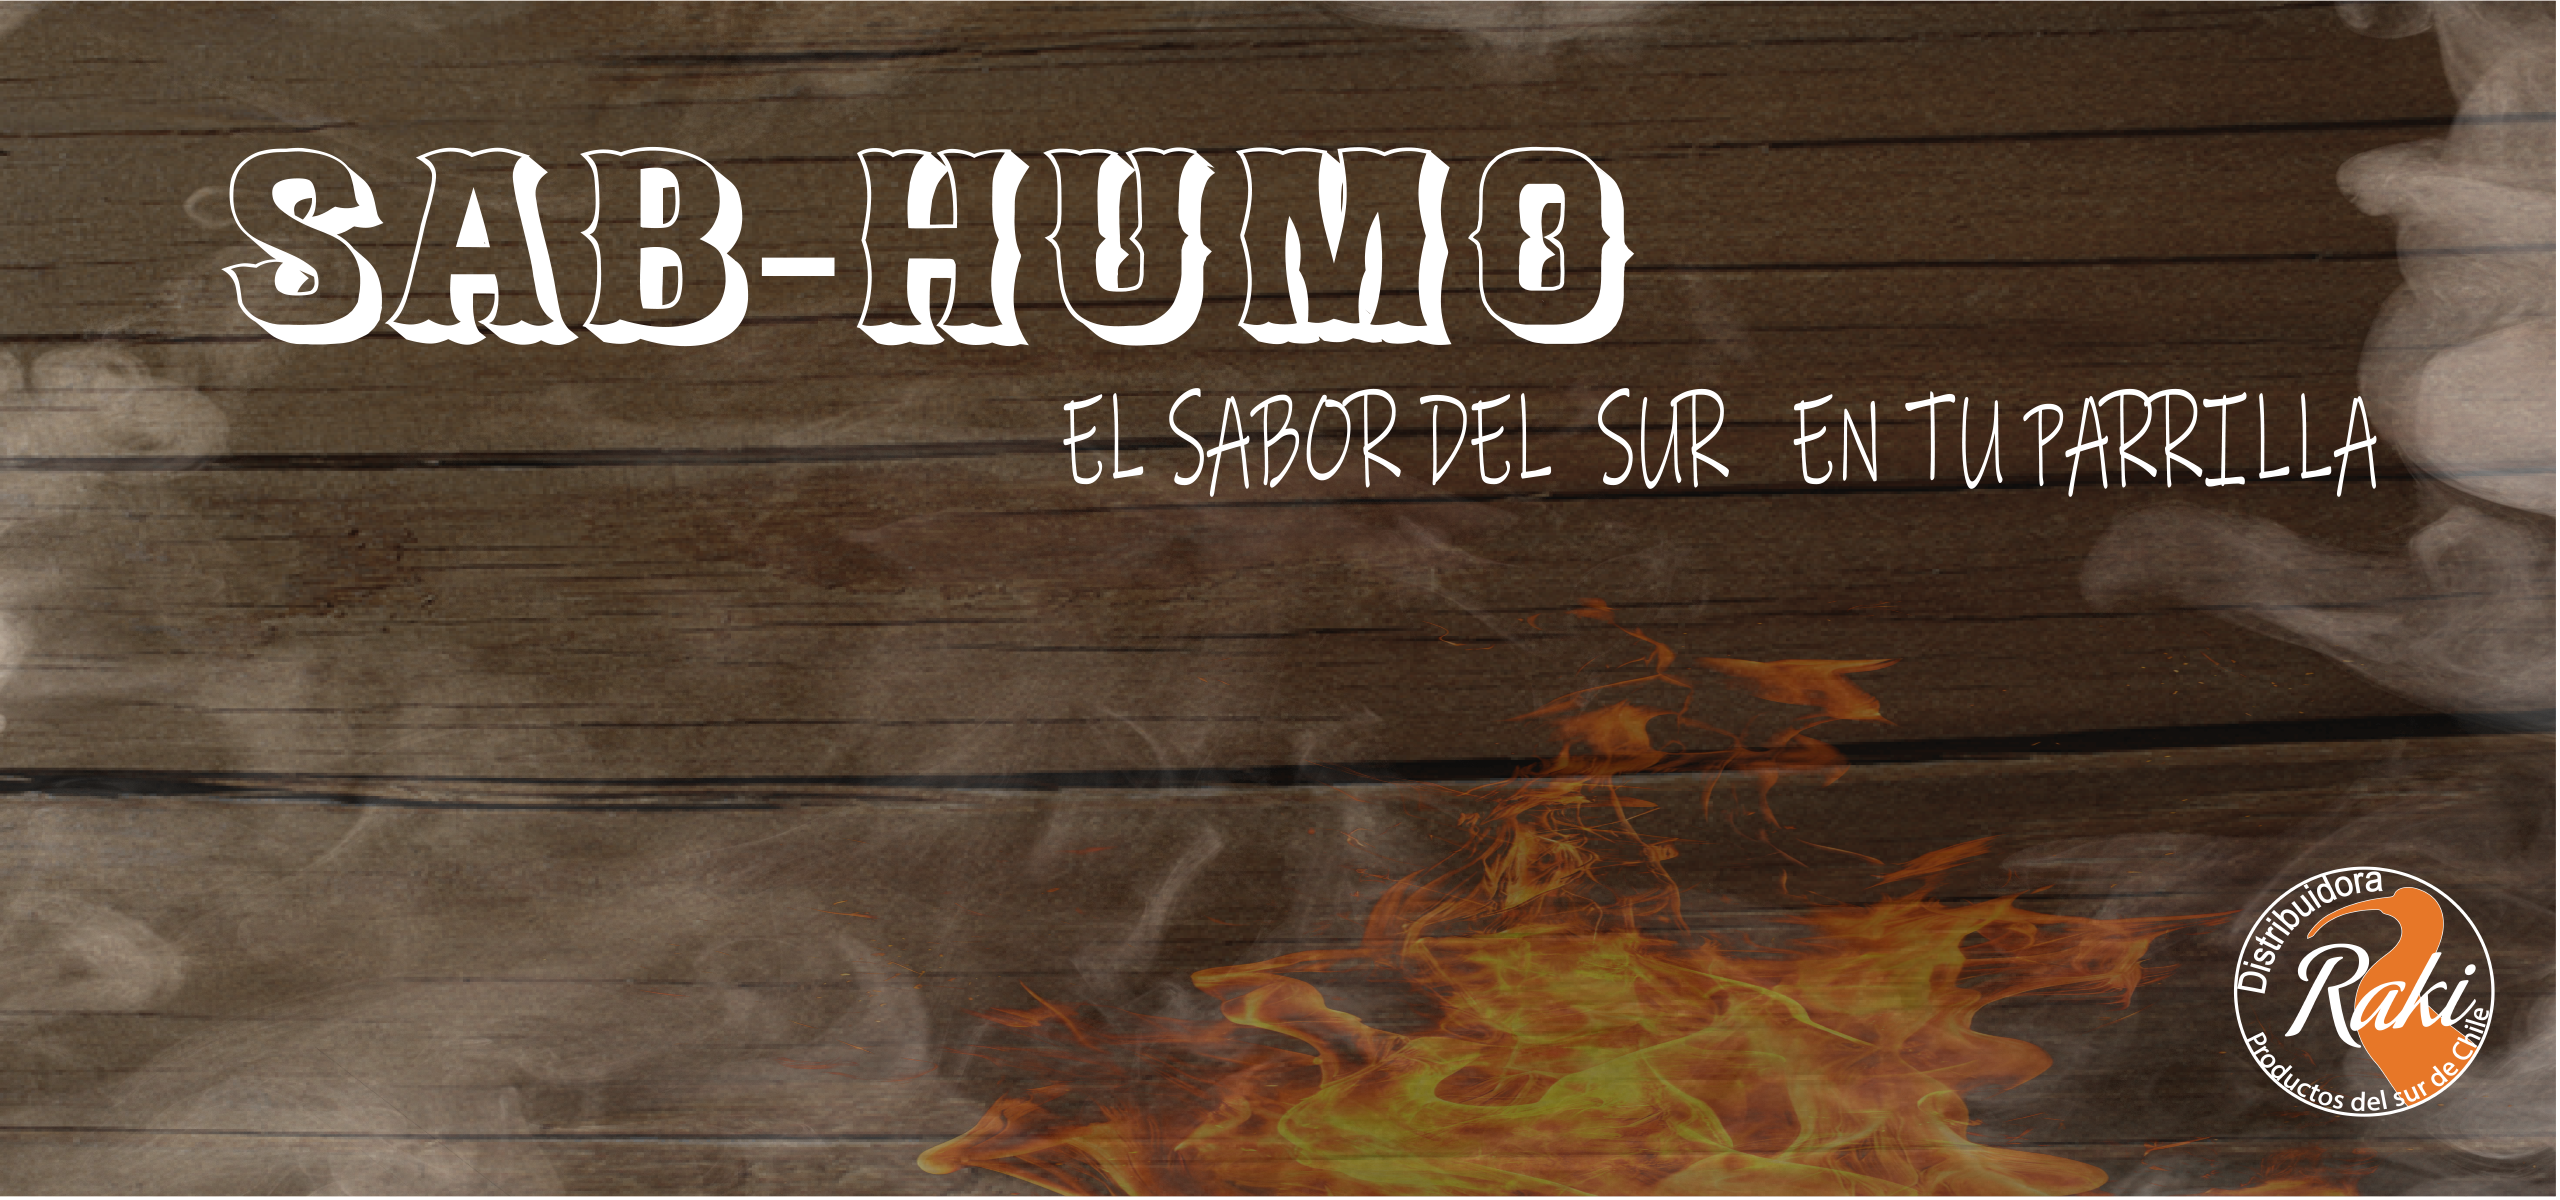
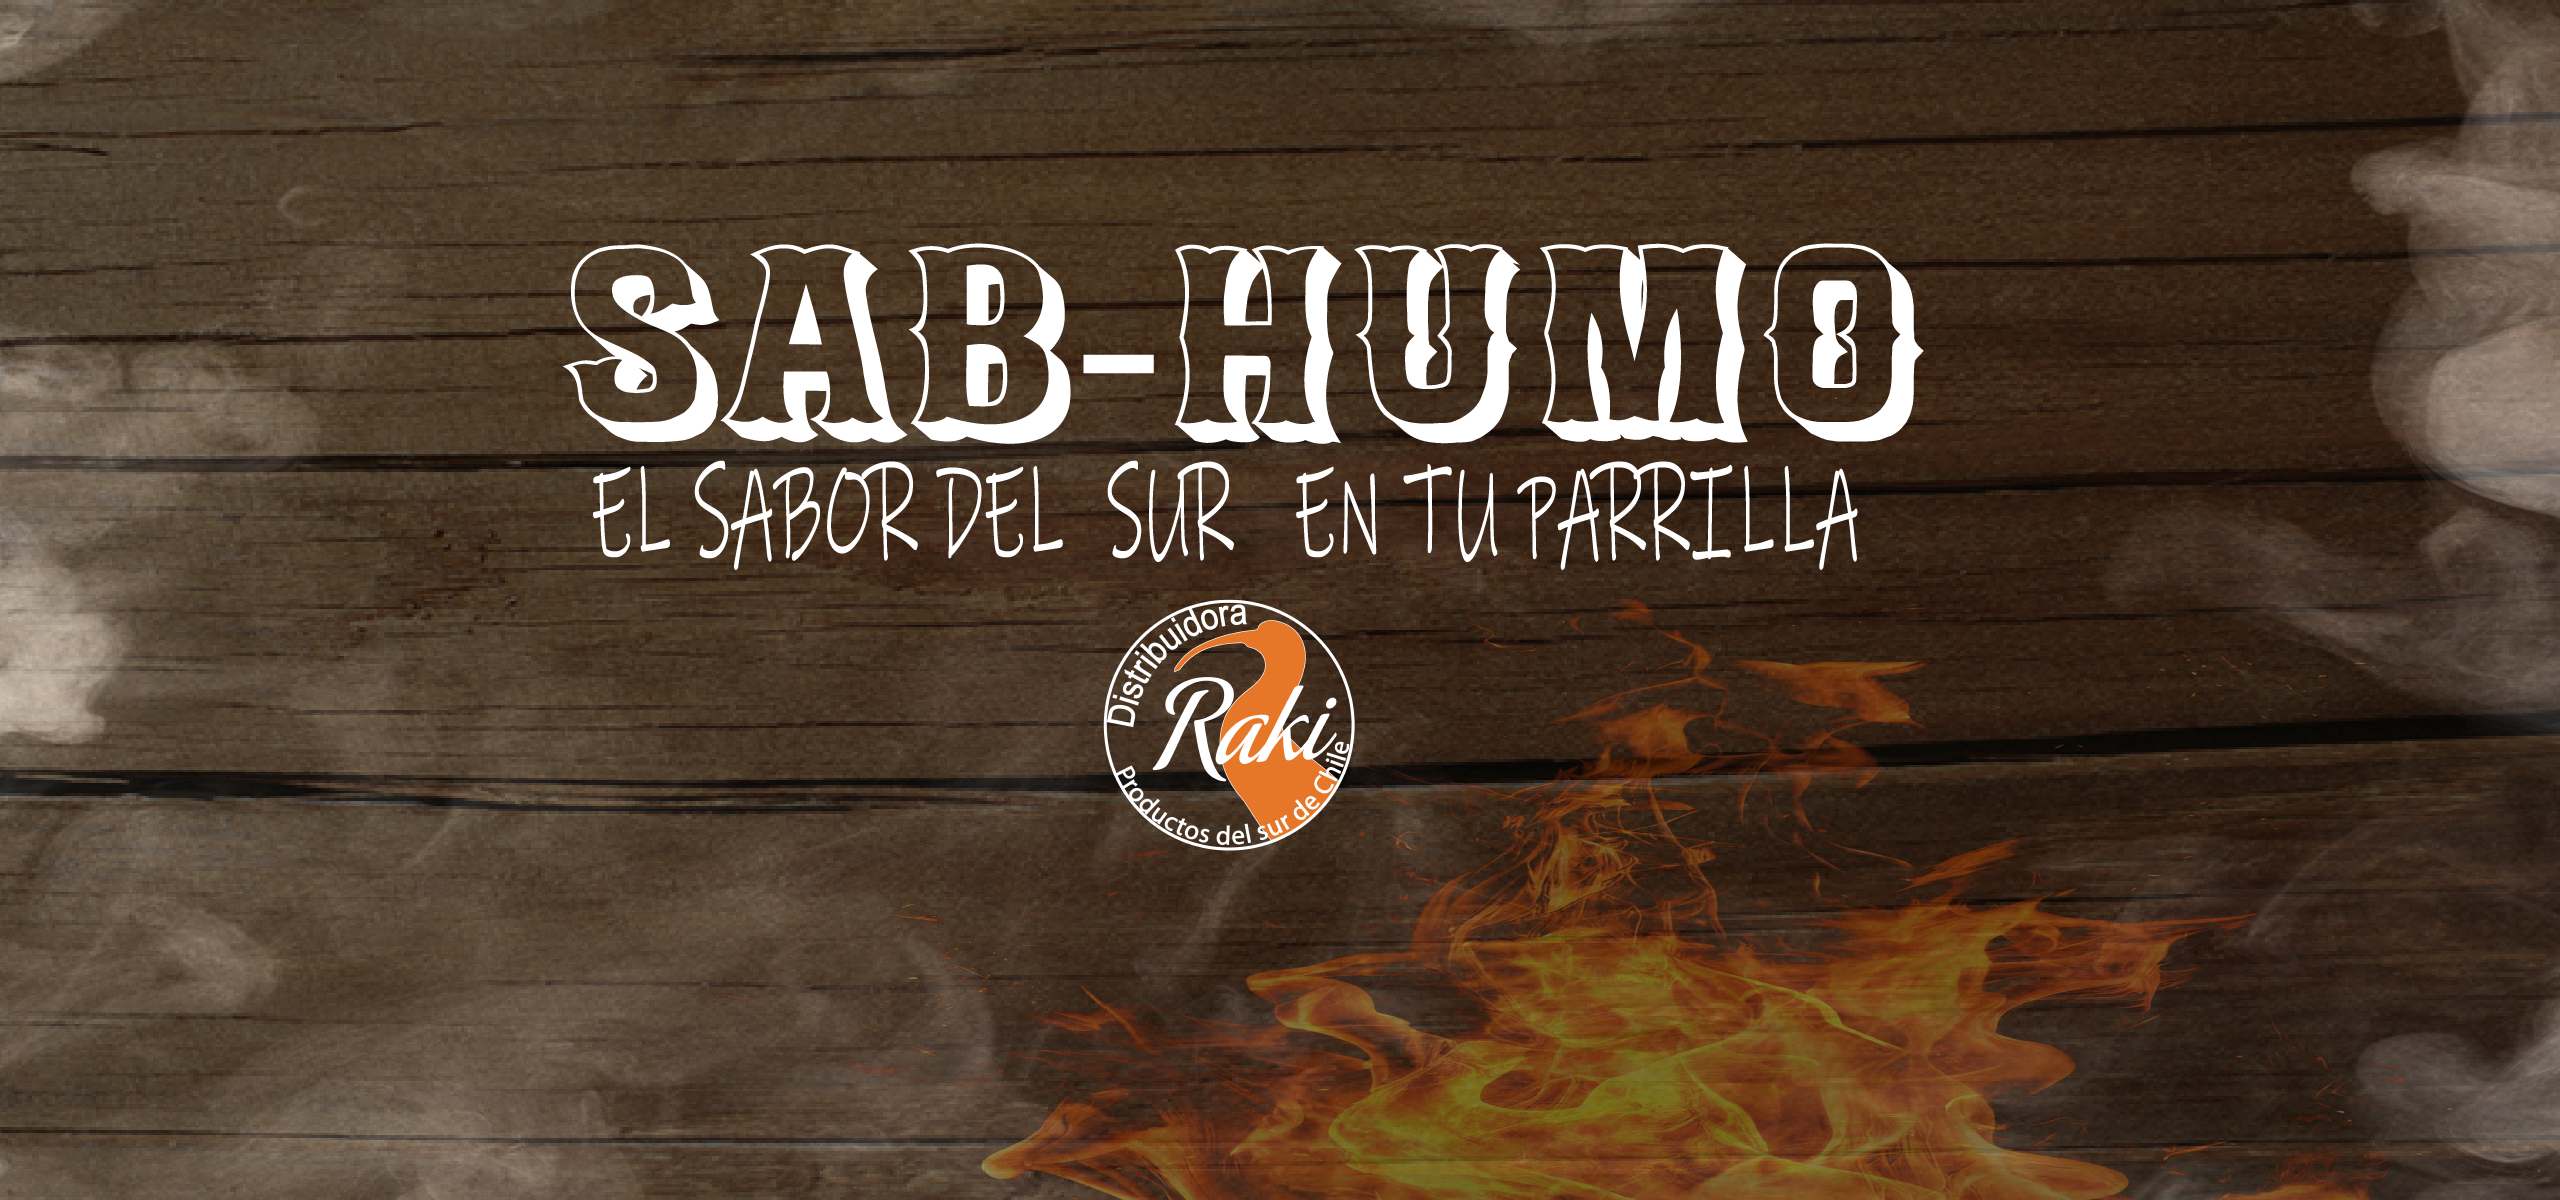
Actualizar texto, imágenes y estilos

diff --git a/index.html b/index.html
@@ -169,11 +169,11 @@
       <div class="about-grid">
         <article>
           <h3>Misión</h3>
-          <p>Abastecer con productos del sur a minimarkets, tiendas gourmet y cadenas horeca de Santiago, garantizando logística puntual y calidad artesanal.</p>
+          <p>Abastecer con productos del sur a minimarkets, tiendas gourmet y cadenas horeca de Chile, garantizando logística puntual y calidad artesanal.</p>
         </article>
         <article>
           <h3>Visión</h3>
-          <p>Ser la distribuidora referente para negocios capitalinos que buscan valor agregado, trazabilidad y diferenciación en su catálogo.</p>
+          <p>Ser la distribuidora referente para negocios que buscan valor agregado, trazabilidad y diferenciación en su catálogo.</p>
         </article>
         <article>
           <h3>Valores</h3>

diff --git a/styles.css b/styles.css
@@ -61,6 +61,13 @@ header{
   margin:0 auto 8px;
   display:block;
 }
+
+@media (min-width:1024px){
+  .site-logo{
+    height:140px;
+  }
+}
+
 header h1{
   margin:0;
   font-family:"Playfair Display", serif;
